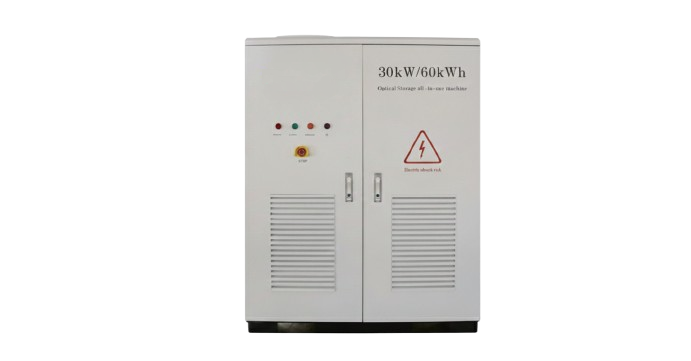
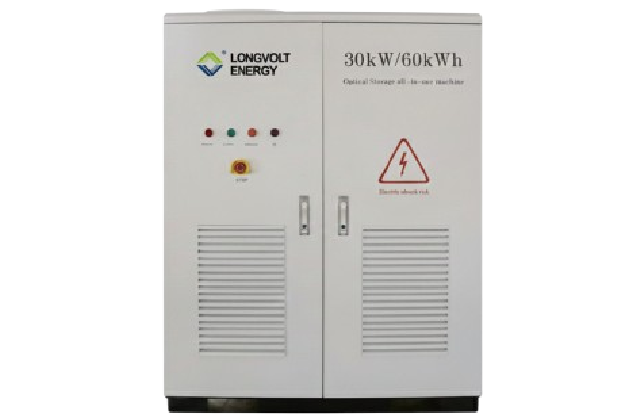
UPDATE: homepage feature product

Changed region(s): [[0.25, 0.0, 0.75, 1.0]]

diff --git a/src/app/(home)/components/ProductGridShowcase.tsx b/src/app/(home)/components/ProductGridShowcase.tsx
@@ -46,12 +46,12 @@ export default function ProductGridShowcase({ products }: ProductGridShowcasePro
             <div className="relative bg-white rounded-2xl md:rounded-3xl overflow-hidden shadow-2xl h-full flex flex-col md:block">
               <div className="grid md:grid-cols-2 gap-6 md:gap-8 lg:gap-12 items-center h-full md:auto">
                 {/* Image */}
-                <div className="relative h-48 md:h-80 lg:h-96 bg-linear-to-br from-gray-50 to-white">
+                <div className="relative h-48 md:h-80 lg:h-140 lg:min-h-[600px] bg-linear-to-br from-gray-50 to-white">
                   <Image
                     src={commercialProduct.image}
                     alt={commercialProduct.imageAlt}
                     fill
-                    className="object-contain p-4 md:p-8"
+                    className="object-cover pt-5 md:pt-10 lg:pt-16"
                   />
                 </div>
                 {/* Content */}
@@ -94,7 +94,7 @@ export default function ProductGridShowcase({ products }: ProductGridShowcasePro
                   alt={residentialProduct.imageAlt}
                   fill
                   sizes="(min-width: 1024px) 50vw, 100vw"
-                  className="object-contain p-4 md:p-6 lg:p-8"
+                  className="object-cover p-4 md:p-6 lg:p-8"
                 />
               </div>
               {/* Content */}
@@ -132,32 +132,32 @@ export default function ProductGridShowcase({ products }: ProductGridShowcasePro
             />
             <div className="relative bg-white rounded-2xl md:rounded-3xl overflow-hidden shadow-xl h-full flex flex-col">
               {/* Image */}
-              <div className="relative bg-linear-to-br from-gray-50 to-white h-48 md:h-56">
+              <div className="relative bg-linear-to-br from-gray-50 to-white h-48 md:h-[52%] ">
                 <Image
                   src={advancedProduct.image}
                   alt={advancedProduct.imageAlt}
                   fill
-                  className="object-contain p-4 md:p-6"
+                  className="object-cover p-4 md:p-6"
                 />
               </div>
               {/* Content */}
-              <div className="p-4 md:p-6 flex-1 flex flex-col">
-                <p className={`text-[10px] md:text-xs font-semibold tracking-[0.15em] ${advancedProduct.badgeColor} uppercase mb-2`}>
+              <div className="p-4 md:p-6 flex-1 flex flex-col gap-3 md:gap-4 bo">
+                <p className={`text-[10px] md:text-xs font-semibold tracking-[0.15em] ${advancedProduct.badgeColor} uppercase`}>
                   {advancedProduct.badge}
                 </p>
-                <h3 className="text-lg md:text-xl lg:text-2xl font-bold mb-2 md:mb-3 leading-tight">
+                <h3 className="text-lg md:text-xl lg:text-2xl font-bold leading-tight">
                   {advancedProduct.titleParts.map((part, idx) => (
                     <span key={idx} className={part.color}>
                       {part.text}{" "}
                     </span>
                   ))}
                 </h3>
-                <p className="text-xs md:text-sm text-gray-600 mb-4 md:mb-6 flex-1 line-clamp-3">
+                <p className="text-xs md:text-sm text-gray-600 flex-1 line-clamp-2">
                   {advancedProduct.description}
                 </p>
                 <Link
                   href="/products?category=solar-street"
-                  className="inline-flex items-center gap-2 px-4 py-2 md:px-6 md:py-3 bg-linear-to-r from-primary to-accent text-white rounded-lg md:rounded-xl text-sm md:text-base font-semibold hover:scale-105 transition-all duration-300 shadow-md hover:shadow-lg"
+                  className="inline-flex items-center gap-2 px-4 py-2 md:px-6 md:py-3 bg-linear-to-r from-primary to-accent text-white rounded-lg md:rounded-xl text-sm md:text-base font-semibold hover:scale-105 transition-all duration-300 shadow-md hover:shadow-lg mt-auto"
                 >
                   View Products
                   <RiArrowRightLine className="text-base md:text-lg" />
@@ -173,32 +173,32 @@ export default function ProductGridShowcase({ products }: ProductGridShowcasePro
             />
             <div className="relative bg-white rounded-2xl md:rounded-3xl overflow-hidden shadow-xl h-full flex flex-col">
               {/* Image */}
-              <div className="relative bg-linear-to-br from-gray-50 to-white h-48 md:h-56">
+              <div className="relative bg-linear-to-br from-gray-50 to-white h-48 md:h-80">
                 <Image
                   src={homeProduct.image}
                   alt={homeProduct.imageAlt}
                   fill
-                  className="object-contain p-4 md:p-6"
+                  className="object-cover "
                 />
               </div>
               {/* Content */}
-              <div className="p-4 md:p-6 flex-1 flex flex-col">
-                <p className={`text-[10px] md:text-xs font-semibold tracking-[0.15em] ${homeProduct.badgeColor} uppercase mb-2`}>
+              <div className="p-4 md:p-6 flex-1 flex flex-col gap-3 md:gap-4 ">
+                <p className={`text-[10px] md:text-xs font-semibold tracking-[0.15em] ${homeProduct.badgeColor} uppercase`}>
                   {homeProduct.badge}
                 </p>
-                <h3 className="text-lg md:text-xl lg:text-2xl font-bold mb-2 md:mb-3 leading-tight">
+                <h3 className="text-lg md:text-xl lg:text-2xl font-bold leading-tight">
                   {homeProduct.titleParts.map((part, idx) => (
                     <span key={idx} className={part.color}>
                       {part.text}{" "}
                     </span>
                   ))}
                 </h3>
-                <p className="text-xs md:text-sm text-gray-600 mb-4 md:mb-6 flex-1 line-clamp-3">
+                <p className="text-xs md:text-sm text-gray-600 flex-1 line-clamp-3">
                   {homeProduct.description}
                 </p>
                 <Link
                   href="/products?category=smart-home"
-                  className="inline-flex items-center gap-2 px-4 py-2 md:px-6 md:py-3 bg-linear-to-r from-primary to-accent text-white rounded-lg md:rounded-xl text-sm md:text-base font-semibold hover:scale-105 transition-all duration-300 shadow-md hover:shadow-lg"
+                  className="inline-flex items-center gap-2 px-4 py-2 md:px-6 md:py-3 bg-linear-to-r from-primary to-accent text-white rounded-lg md:rounded-xl text-sm md:text-base font-semibold hover:scale-105 transition-all duration-300 shadow-md hover:shadow-lg mt-auto"
                 >
                   View Products
                   <RiArrowRightLine className="text-base md:text-lg" />
